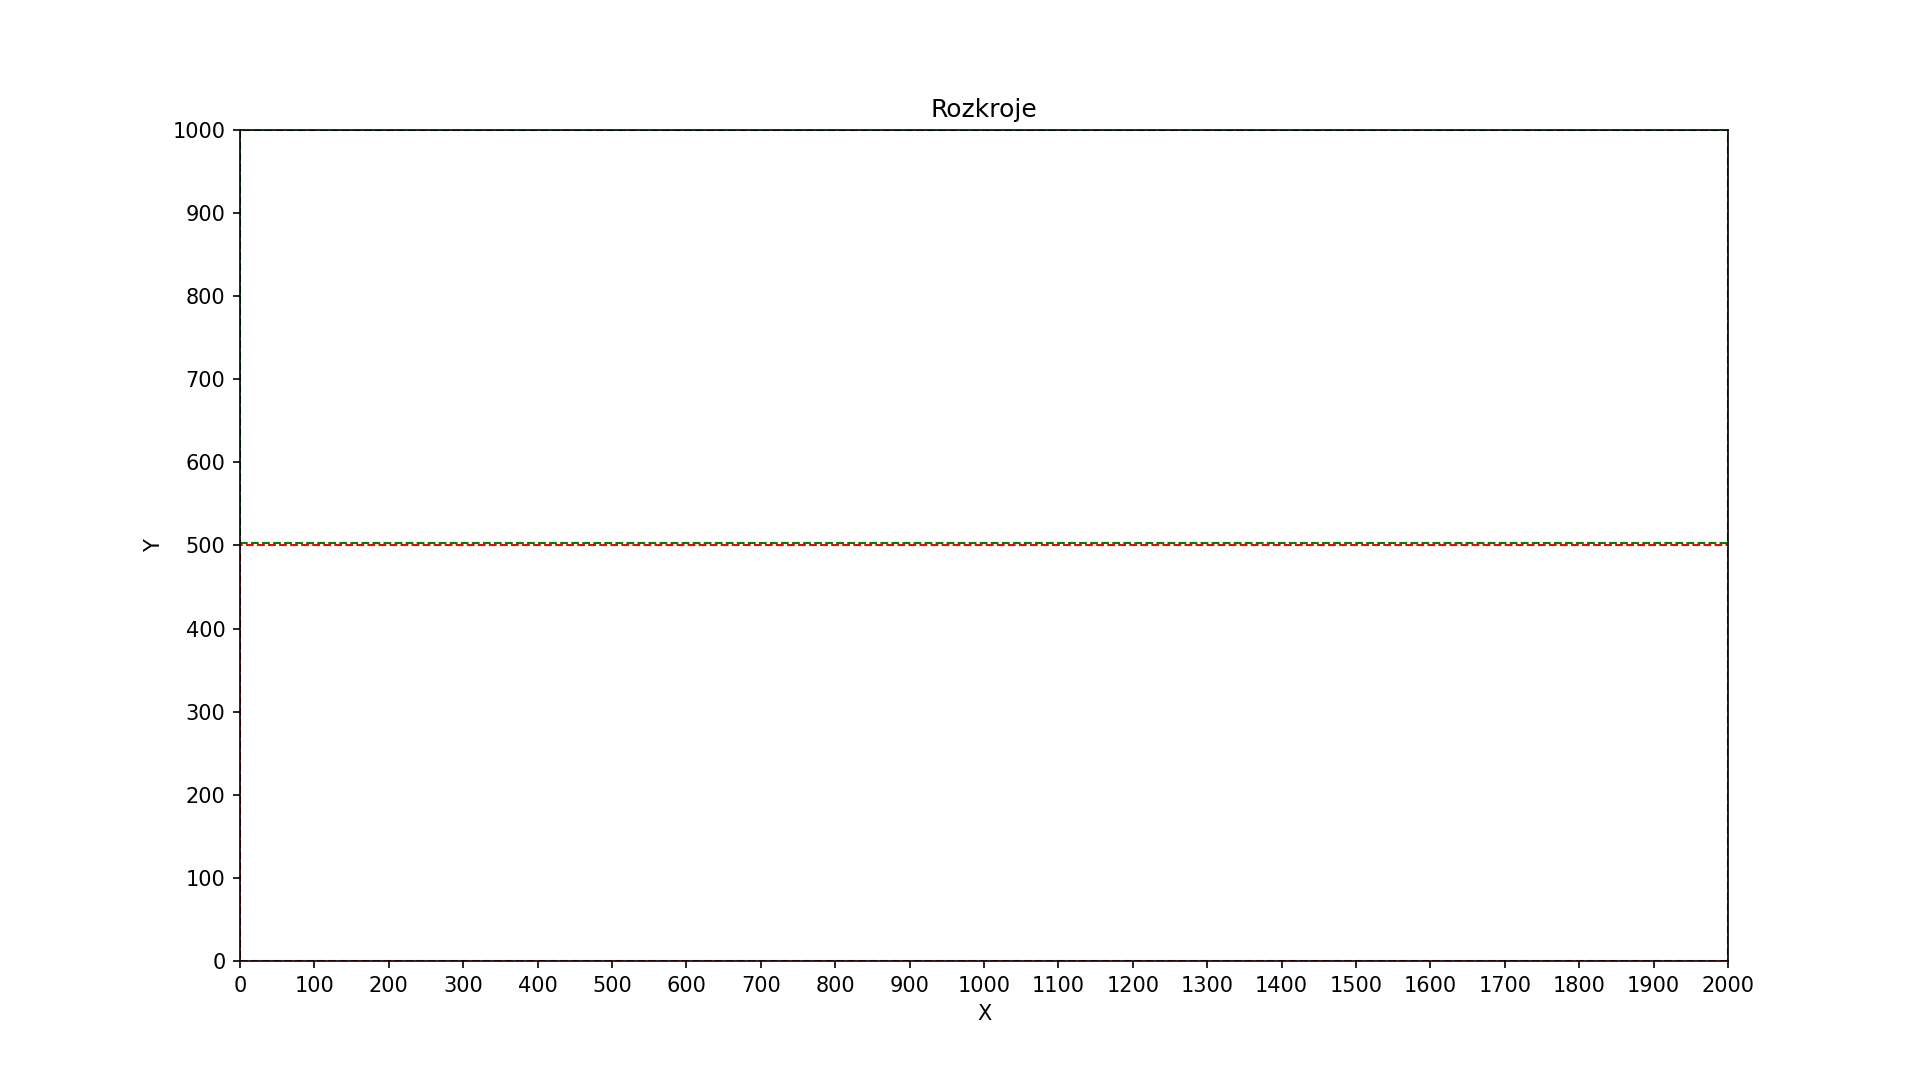
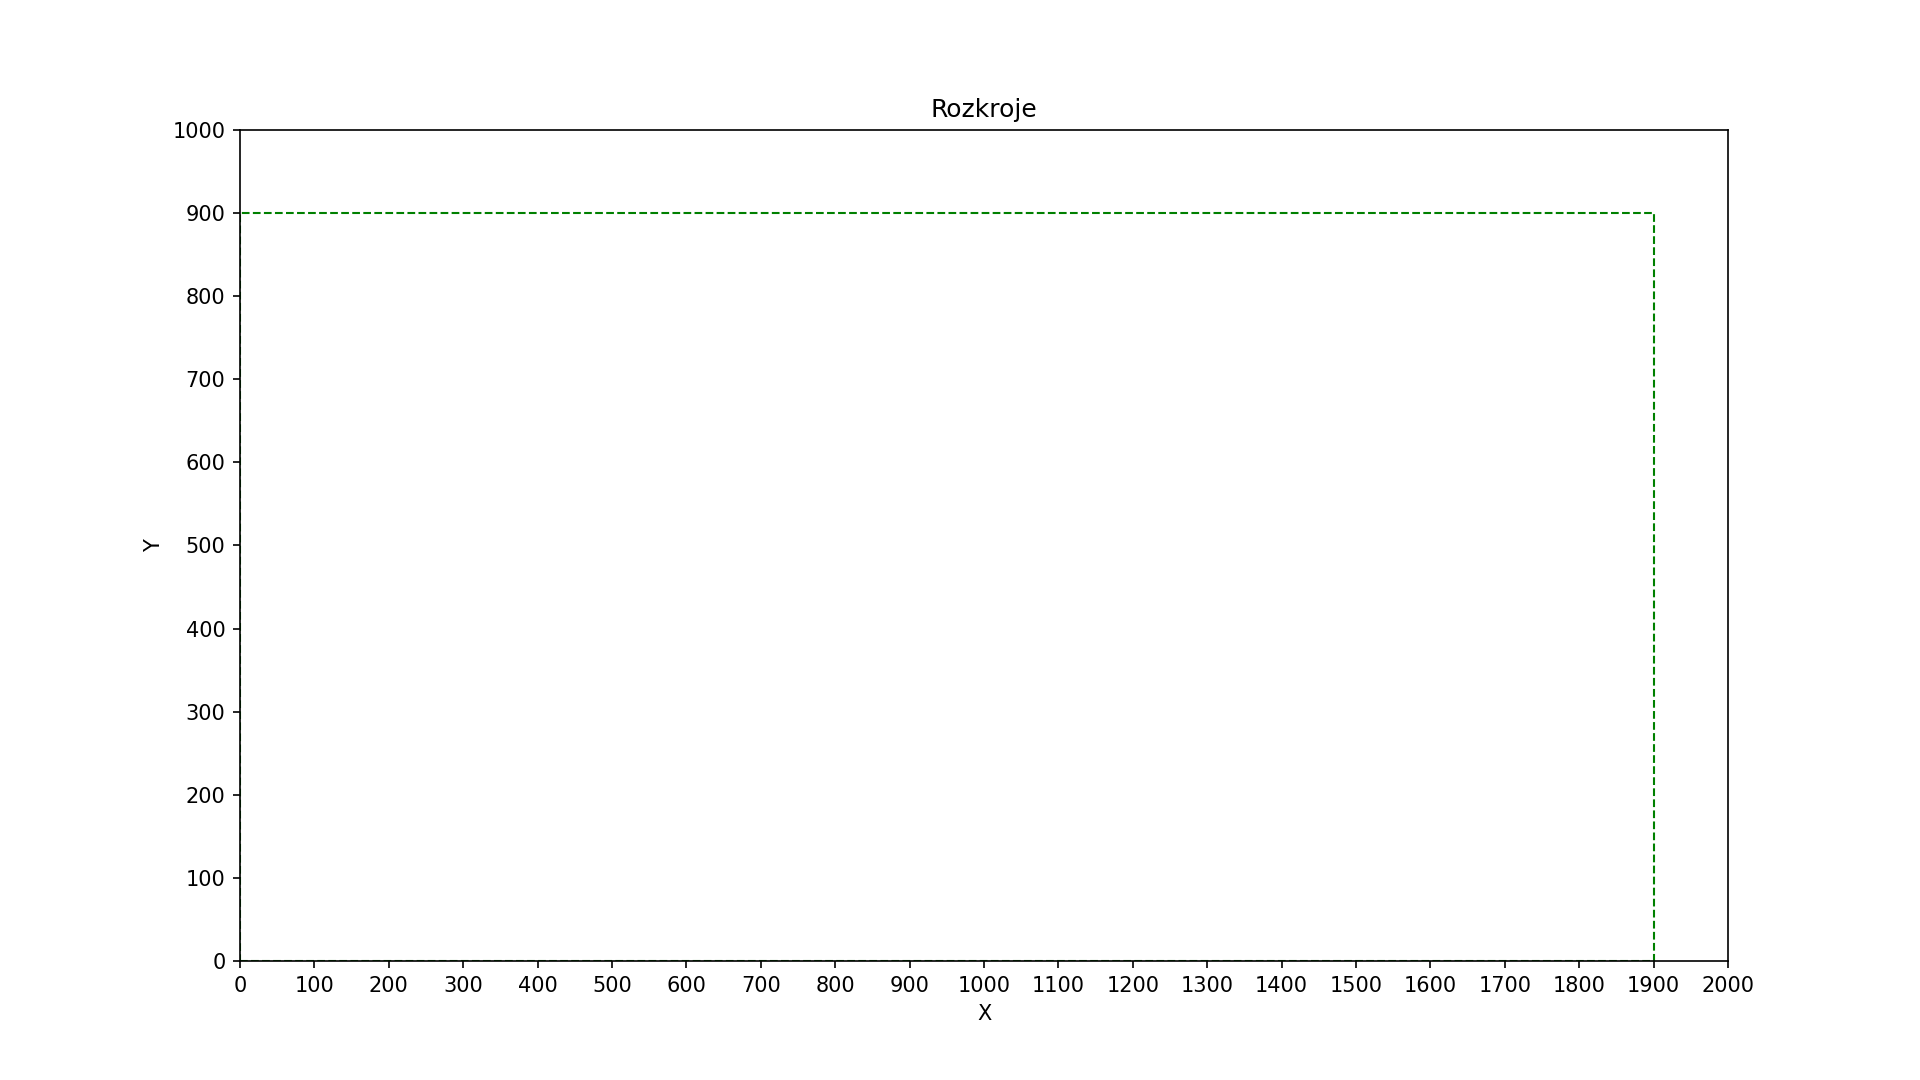
a

Changed region(s): [[0.8438, 0.4889, 0.875, 0.5194]]

diff --git a/AutoWood_Backend/product/cut_optimizer/board_based_optimizer.py b/AutoWood_Backend/product/cut_optimizer/board_based_optimizer.py
@@ -44,7 +44,7 @@ class Board:
         else:
 
             print("Not enough space in this BOARD")
-            sys.exit()
+            
        
     def cut_board(self,format_width, format_height):
 
@@ -70,11 +70,10 @@ class Board:
         return new_board_same_row, new_board_higher_row
     
     def space_check(self,format_width, format_height):
-        if self.X < format_width or self.Y < format_height:
-            print("FALSE")
+
+        if self.X < format_width or self.Y < format_height:    
             return False
         else:
-            print("TRUE")
             return True
 
 
@@ -114,8 +113,9 @@ def format_fit_check(boards, formats):
 def scan_boards(boards):
     #function to scan free spaces on the board and mark free areas on the board for debug purposes
 
-    if len(boards) < 1:
+    if len(boards) <= 1:
         print(boards)
+        draw_gaps(boards[0],ax)
 
     else:
         for board in boards:
@@ -250,13 +250,17 @@ def place_elements(formats):
         
         for board in boards:                     
             new_boards = board.add_format(width,height)
-            for new_board in new_boards:
-                boards.append(new_board)
-            formats.pop(0)
-            break
+            if new_boards:
+                for new_board in new_boards:
+                    boards.append(new_board)
+                formats.pop(0)
+                break
+            else:
+                break
            
         if len(formats) == 0: 
             break
+        break
       
     #for board in boards:
         #print(board)
